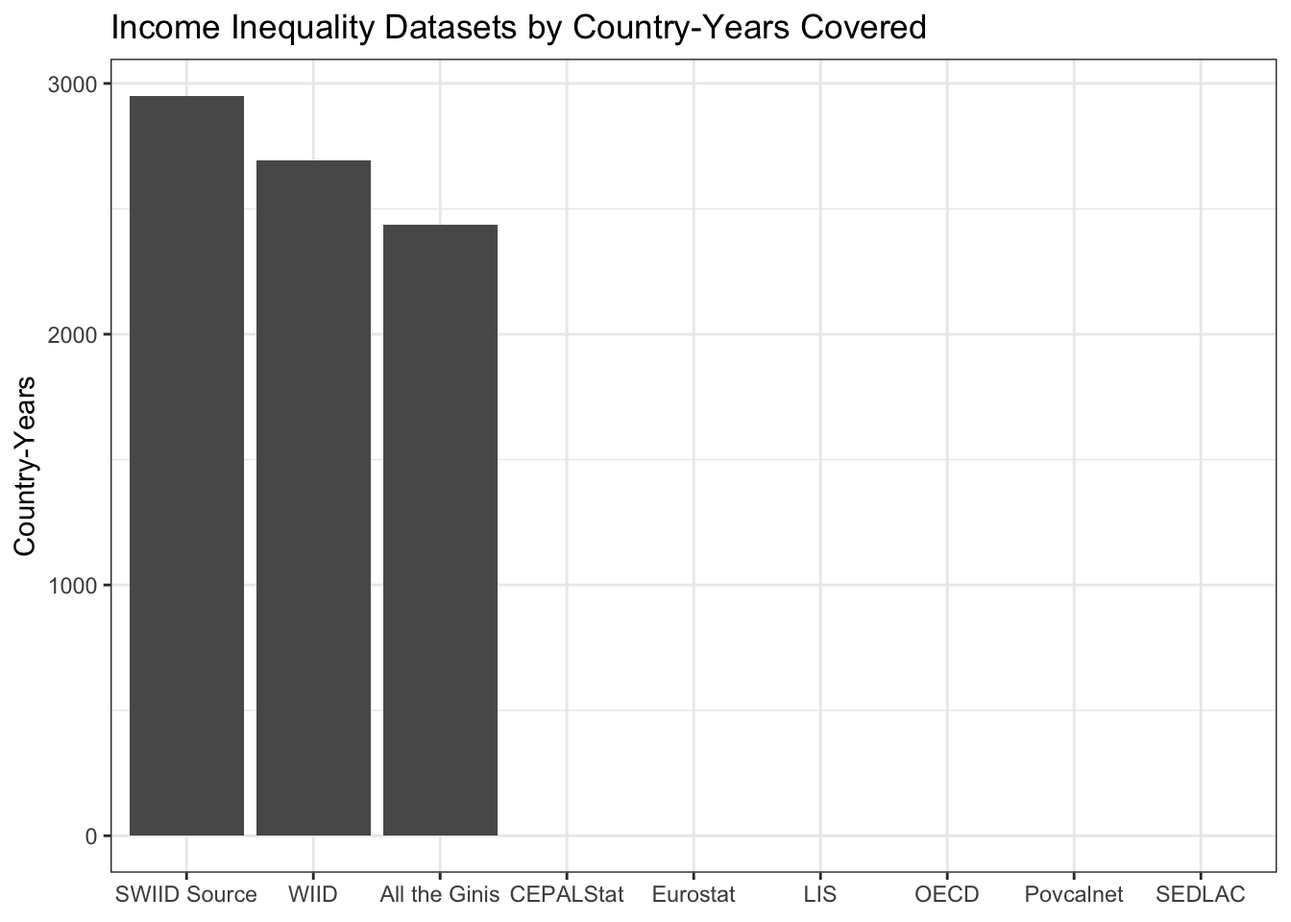
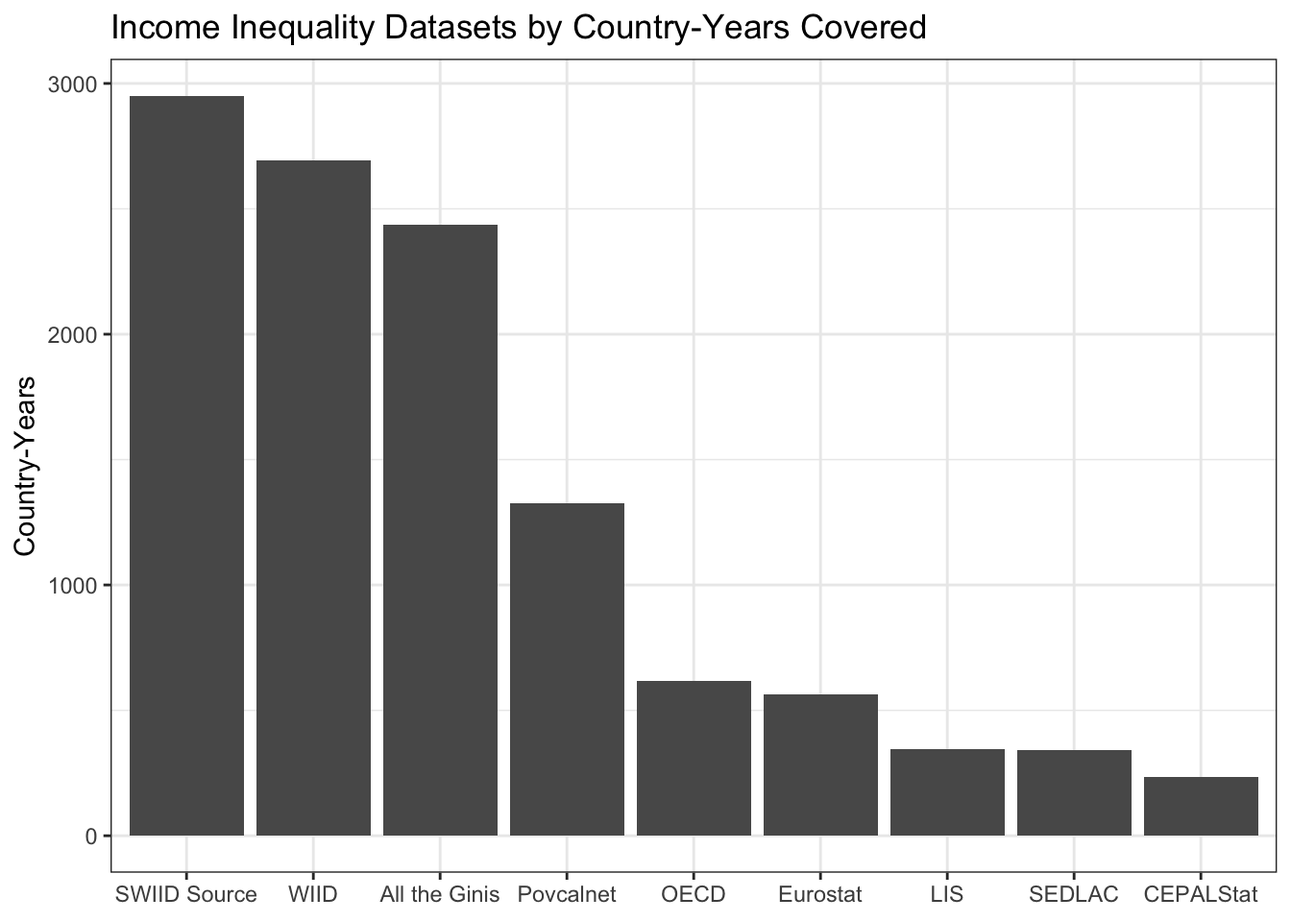
rebuilding site Thu Mar  7 17:30:53 CST 2019

diff --git a/blog/index.html b/blog/index.html
@@ -306,7 +306,7 @@ stata(&quot;sum a&quot;, data.in = x)                         </code></pre>
 ## 
 ##     Variable |       Obs        Mean    Std. Dev.       Min        Max
 ## -------------+--------------------------------------------------------
-##            a |         3   -.3070876    2.009733  -1.710003   1.995275</code></pre>
+##            a |         3   -1.065006    .9060159  -1.998136  -.1887876</code></pre>
 <pre class="r"><code>## Data output from Stata (e.g., obtain &#39;auto&#39; dataset)
 auto &lt;- stata(&quot;sysuse auto&quot;, data.out = TRUE)</code></pre>
 <pre><code>## . sysuse auto
@@ -345,24 +345,24 @@ stata(&quot;
 ## 
 ##     Variable |       Obs        Mean    Std. Dev.       Min        Max
 ## -------------+--------------------------------------------------------
-##            y |       100    .0592783    .9226038  -1.849994   3.267023
-##           x1 |       100    .0602101    .9078033  -2.261414   1.829067
-##           x2 |       100   -.0951395    1.035894  -2.462968   1.880852
+##            y |       100    .1788017    1.113156  -2.347368   3.069708
+##           x1 |       100    .0287096     1.12099  -3.033225   2.693249
+##           x2 |       100   -.1258517    .9236639  -2.836265   1.738997
 ## .     reg y x1 x2
 ## 
 ##       Source |       SS       df       MS              Number of obs =     100
-## -------------+------------------------------           F(  2,    97) =    0.21
-##        Model |  .371905827     2  .185952914           Prob &gt; F      =  0.8069
-##     Residual |  83.8966767    97  .864914193           R-squared     =  0.0044
-## -------------+------------------------------           Adj R-squared = -0.0161
-##        Total |  84.2685825    99  .851197803           Root MSE      =  .93001
+## -------------+------------------------------           F(  2,    97) =    3.19
+##        Model |   7.5698813     2  3.78494065           Prob &gt; F      =  0.0455
+##     Residual |  115.102695    97  1.18662572           R-squared     =  0.0617
+## -------------+------------------------------           Adj R-squared =  0.0424
+##        Total |  122.672577    99  1.23911693           Root MSE      =  1.0893
 ## 
 ## ------------------------------------------------------------------------------
 ##            y |      Coef.   Std. Err.      t    P&gt;|t|     [95% Conf. Interval]
 ## -------------+----------------------------------------------------------------
-##           x1 |  -.0508655   .1031892    -0.49   0.623    -.2556676    .1539366
-##           x2 |   .0360632   .0904297     0.40   0.691    -.1434147     .215541
-##        _cons |   .0657719   .0935664     0.70   0.484    -.1199315    .2514753
+##           x1 |  -.1666336   .0981707    -1.70   0.093    -.3614751     .028208
+##           x2 |  -.2421968   .1191432    -2.03   0.045    -.4786632   -.0057305
+##        _cons |   .1531048   .1099566     1.39   0.167    -.0651287    .3713383
 ## ------------------------------------------------------------------------------
 ## .</code></pre>
 </div>
@@ -482,6 +482,72 @@ stata(&quot;
 </ul>
 <p><img src="/post/2017-10-27-swiid-version-6-1-is-available_files/figure-html/unnamed-chunk-1-1.png" width="672" /></p>
 <p>For more details, you can check out the all the R and Stan code used to generate the estimates <a href="https://github.com/fsolt/swiid">in the SWIID GitHub repository</a>. As always, I encourage users of the SWIID to <a href="mailto:frederick-solt@uiowa.edu">email me</a> with their comments, questions, and suggestions.</p>
+
+    </div>
+    
+  
+
+  
+
+      <h3><a href="/blog/2017/07/28/the-swiid-source-data/">The SWIID Source Data</a></h3>
+      <h5>Friday, 28 July 2017</h5>
+    <div class="entry">
+        
+
+
+<p><em>Saturday, 9 February 2019: Updated with information on the source data for SWIID Version 8.0</em></p>
+<p>I have been producing the Standardized World Income Inequality Database for nearly a decade. Since 2008, the SWIID has provided estimates of the Gini index of income inequality<a href="#fn1" class="footnote-ref" id="fnref1"><sup>1</sup></a> for as many countries and years as possible and—given the primary goal of maximizing spatial and temporal coverage—these estimates are as comparable as the available data allow. The dataset has been used widely by academics, journalists, and policymakers. It’s been successful way beyond all my hopes.<a href="#fn2" class="footnote-ref" id="fnref2"><sup>2</sup></a> I’ve been <a href="/swiid/swiid_downloads/">adding to it, revising it, improving on it</a> pretty much the entire time since its launch. Now, <a href="https://www.nsf.gov/awardsearch/showAward?AWD_ID=1533746">with the support of the NSF</a>, I am scrapping all of that work and starting fresh. From scratch.</p>
+<p>This is the first in a series of posts on how I did it. It focuses on an unheralded but foundational part of the SWIID project, the source data. The basic idea behind the SWIID is to start with the data that has been most carefully picked over to ensure its utmost cross-national comparability: the data of the fantastic <a href="http://www.lisdatacenter.org">Luxembourg Income Study</a>. I’ve heard that generating a single country-year of LIS data takes an average of ten person-months of work. <em>That’s</em> dedication to comparability. ❤ But the flipside of maximizing comparability is that the LIS’s coverage is pretty sparse: at last count, it includes just 351 country-years.<a href="#fn3" class="footnote-ref" id="fnref3"><sup>3</sup></a> To address this weakness, the SWIID routine estimates the relationships between Gini indices based on the LIS and all of the other Ginis available for the same country-years, then uses these relationships to estimate what the LIS Gini <em>would be</em> in country-years not included in the LIS but available from other sources.<a href="#fn4" class="footnote-ref" id="fnref4"><sup>4</sup></a> The critical first step to making this work is getting <em>a lot</em> of other, non-LIS Ginis. I call these other Ginis the SWIID’s source data. Over the years, I and my research assistants built up a big spreadsheet of data collected from international organizations, national statistical offices, and scholarly books and articles. But it seemed like whenever I checked over these source data, I would find that at least a few figures had been recently revised, or their source was seemingly no longer available, or (worst of all) they evidently had been entered incorrectly. So again: it’s time to start over from scratch.</p>
+<p>To be included in the SWIID’s source data, observations need to encompass the entire population of a country without regard to age, location,<a href="#fn5" class="footnote-ref" id="fnref5"><sup>5</sup></a> or employment status.<a href="#fn6" class="footnote-ref" id="fnref6"><sup>6</sup></a> They need to have an identifiable welfare definition and equivalence scale (more on these below). Finally, because I want to be able to direct users to sources they can easily peruse themselves, observations need to be available online.<a href="#fn7" class="footnote-ref" id="fnref7"><sup>7</sup></a></p>
+<p>Hand-entering data is tedious and error-prone work, so I <a href="https://github.com/fsolt/swiid/blob/master/R/data_setup.R">automated as much of the process of data collection</a> as practicable. Most international organizations and a few national statistical offices use APIs that facilitate downloading their data, and often the <a href="https://twitter.com/search?q=%23rstats">#rstats</a> community has built R packages using these APIs to make the task even easier. I took as much advantage of these resources as possible.<a href="#fn8" class="footnote-ref" id="fnref8"><sup>8</sup></a> In the absence of an API, I scripted downloads of any available spreadsheets, preferring clean csv files to excel-formatted ones. If there was no spreadsheet, but data were available in pdf files, I automated downloading these files and then used <a href="http://thomasleeper.com">Thomas Leeper</a>’s <a href="https://github.com/ropensci/tabulizer"><code>tabulizer</code> package</a> to read the tables into R. In the absence of a file to download, I scripted the process of scraping the data from the web. Still, for a variety of reasons, a source’s data may have been consigned to being entered in a <a href="https://github.com/fsolt/swiid/raw/master/data-raw/fs_added_data.csv">separate spreadsheet</a>. Many sources contain just a handful or fewer observations, making the payoff to the often laborious process of data cleaning too small to justify the effort. Some sources–including most academic articles–are behind paywalls, making reproducibility a hassle anyway (though I still often used tabulizer to read the data from the pdf before cutting-and-pasting it into the spreadsheet). Finally, at least <a href="https://wdronline.worldbank.org/bitstream/handle/10986/9269/wps4007.pdf?sequence=1">one source</a> contains crucial information encoded in the typeface(!!) of its tables, information lost when the tables are scanned into R. All of the entries in this spreadsheet were checked repeatedly for errors,<a href="#fn9" class="footnote-ref" id="fnref9"><sup>9</sup></a> and I excluded repeated reports of the exact same observation from different sources. In the end, I was able to automate the collection of more than three quarters of the source data and a much higher percentage of the series that will be updated or are subject to revision, facilitating incorporating these changes in future versions.</p>
+<p>The resulting dataset comprises 15549(!) Gini coefficients from 2951 country-years in 196 countries or territories, making the coverage of the SWIID source data broader than that of any other income inequality dataset. This isn’t surprising given that, with the exceptions of the <a href="https://www.wider.unu.edu/database/world-income-inequality-database-wiid4">WIID</a> (which, since it provides no original data, isn’t drawn on at all anymore) and the <a href="https://www.gc.cuny.edu/Page-Elements/Academics-Research-Centers-Initiatives/Centers-and-Institutes/Stone-Center-on-Socio-Economic-Inequality/Core-Faculty,-Team,-and-Affiliated-LIS-Scholars/Branko-Milanovic/Datasets">All the Ginis</a> database (which provides little original data, and so isn’t drawn on much), the SWIID source data incorporates all of the data in these other datasets.</p>
+<p><img src="/post/2017-07-28-the-swiid-source-data_files/figure-html/data_by_coverage-1.png" width="672" /></p>
+<p>So, let’s check out what the source data look like. There is much more data available about the income distribution in some countries than in others. Which countries are most data-rich? The plot below shows the top dozen countries by the count of observations. Canada, by virtue of the excellent <a href="http://www.statcan.gc.ca">Statistics Canada</a> as well as longstanding membership in the OECD and LIS, has 736 observations, many more than any other country. The United Kingdom, Germany, and the United States are next, followed by an interesting mix of countries from around the world with not surprisingly a sizable European representation. All are members of the LIS. On the other hand, eleven countries have only a single observation.</p>
+<p><img src="/post/2017-07-28-the-swiid-source-data_files/figure-html/obs_by_country-1.png" width="672" /></p>
+<p>As we’ll see in later posts in this series, observations for the same country in the same year, but with different welfare definitions and equivalence scales or from different sources, are important to generating the SWIID’s cross-nationally comparable estimates. Still, we might be interested to know which countries have the most coverage of the years in the SWIID’s current 57-year timeframe, from 1960 to 2017, because the SWIID’s inequality estimates for countries with fewer country-year observations will include more interpolated values, which in turn will have more uncertainty.</p>
+<p><img src="/post/2017-07-28-the-swiid-source-data_files/figure-html/years_by_country-1.png" width="672" /></p>
+<p>The source data includes observations for Sweden and the United Kingdom in all but one of these years and for the United States in all but five. Iran and Argentina—two countries not included in the LIS—make the top 12, with 43 and 42 country-year observations respectively. The median country has observations in 16 different country-years.</p>
+<p>We can also get a sense of the available inequality data by turning the question around and asking about coverage across countries over time. There are observations for 123 countries in 2005. Coverage is relatively good in the years from 2000 to 2015, at least 80 countries per year, before dropping to 75 countries for 2016 and just 25 for 2017. Country coverage is pretty thin each year through the 1960s and 1970s and still isn’t all that great until the late 1980s.<a href="#fn10" class="footnote-ref" id="fnref10"><sup>10</sup></a></p>
+<p><img src="/post/2017-07-28-the-swiid-source-data_files/figure-html/countries_by_year-1.png" width="672" /></p>
+<p>Earlier I mentioned that to be included in the SWIID source data observations need to have an identifiable welfare definition and equivalence scale. A welfare definition is an answer to the question, this Gini measures the distribution of what? The four welfare definitions employed in the SWIID source data are market income, gross income, disposable income, and consumption. Market income is defined as the amount of money coming into the household, excluding any government cash or near-cash benefits, the so-called ‘pre-tax, pre-transfer income.’<a href="#fn11" class="footnote-ref" id="fnref11"><sup>11</sup></a> Gross income is the sum of market income and government transfer payments; it is ‘pre-tax, post-transfer income.’ Disposable income, in turn, is gross income minus direct taxes: ‘post-tax, post-transfer income.’<a href="#fn12" class="footnote-ref" id="fnref12"><sup>12</sup></a> Consumption does not refer to the money coming into the household at all but rather to the money going out.<a href="#fn13" class="footnote-ref" id="fnref13"><sup>13</sup></a> In the source data, Ginis of disposable income are much more common than those using other welfare definitions.</p>
+<p><img src="/post/2017-07-28-the-swiid-source-data_files/figure-html/obs_by_wd-1.png" width="672" /></p>
+<p>Equivalence scales are the ways in which the size and composition of a household is incorporated into the calculation of its members’ welfare. On the one hand, these factors can simply be ignored, with all households with the same amount of income or consumption treated as if they enjoy the same level of welfare, regardless of their size. One can improve on this household ‘scale’<a href="#fn14" class="footnote-ref" id="fnref14"><sup>14</sup></a> by dividing the household’s income by its number of members, that is, by using a per capita scale. But a household of two members and an income of $100,000 is better off than one with a single member and $50,000 due to economies of scale—that’s a big reason why people look for roommates. There are a variety of ways to try to account for these economies by calculating the number of “equivalent adults” in the household. Of the most commonly used adult-equivalent scales, the square-root scale is the most straightforward: one simply divides the household income by the square root of the number of members. The “OECD-modified” scale for the number of adult equivalents (<a href="http://www.oecd.org/eco/growth/OECD-Note-EquivalenceScales.pdf">which the OECD itself actually never used</a>) counts the first adult as 1, all other adults as .5, and each child as .3. And there are plenty of other adult-equivalent scales, from the “old OECD” scale (1 for the first adult, 0.7 for each additional adult, and 0.5 for each child) to caloric-requirement-based scales (which are actually very nearly per capita, as it turns out) to a number of country-specific scales. In previous versions of the SWIID, all adult-equivalent scales were considered a single category. Now, the square-root scale and the OECD-modified scale have both been split out, leaving the remaining catch-all adult-equivalent category much smaller.</p>
+<p><img src="/post/2017-07-28-the-swiid-source-data_files/figure-html/obs_by_es-1.png" width="672" /></p>
+<p>Differences in the welfare definition and the equivalence scale employed constitute the biggest source of incomparability across observations in the source data, and all twenty of the possible combinations are represented. I’ll take up how we get from these incomparable observations to the SWIID estimates in the next post. In the meantime, if you’d like to see the source data, you can <a href="https://github.com/fsolt/swiid/blob/master/data/swiid_source.csv">download it from here</a>.</p>
+<p><img src="/post/2017-07-28-the-swiid-source-data_files/figure-html/obs_by_wdes-1.png" width="672" /></p>
+<div id="references" class="section level1 unnumbered">
+<h1>References</h1>
+<div id="refs" class="references">
+<div id="ref-Jesuit2010">
+<p>Jesuit, David K., and Vincent A. Mahler. 2010. “Comparing Government Redistribution Across Countries: The Problem of Second-Order Effects.” <em>Social Science Quarterly</em> 91(5): 1390–1404.</p>
+</div>
+<div id="ref-Morgan2013">
+<p>Morgan, Jana, and Nathan J. Kelly. 2013. “Market Inequality and Redistribution in Latin America and the Caribbean.” <em>Journal of Politics</em> 75(3): 672–85.</p>
+</div>
+<div id="ref-Solt2016">
+<p>Solt, Frederick. 2016. “The Standardized World Income Inequality Database.” <em>Social Science Quarterly</em> 97(5): 1267–81.</p>
+</div>
+</div>
+</div>
+<div class="footnotes">
+<hr />
+<ol>
+<li id="fn1"><p>I think the clearest explanation of the Gini index is that it is half the average difference in income between all pairs of units—say, households—as a percentage of the mean income of those units. Okay, I said “clearest,” not necessarily “clear.” Anyway, it has a theoretical range of 0 (all households have the same income) to 100 (one household has all the income and the rest have none), but Ginis below 20 or above 60 are rare in the real world. There are good reasons to prefer other measures of inequality, and there are many options, but the Gini is by far the most widely available.<a href="#fnref1" class="footnote-back">↩</a></p></li>
+<li id="fn2"><p>At the time, those hopes were admittedly concerned mostly with getting <a href="https://twitter.com/search?q=%23reviewer2&amp;src=typd">#Reviewer2</a> off my back so I could publish a <a href="/papers/solt2011">series</a> <a href="/papers/solthabelgrant2011">of</a> <a href="/papers/solt2012">manuscripts</a> I had on how the context of inequality is related to people’s political attitudes.<a href="#fnref2" class="footnote-back">↩</a></p></li>
+<li id="fn3"><p>Which is what #Reviewer2 always complained about. R2: Shouldn’t you include <a href="https://en.wikipedia.org/wiki/Ruritania#In_academia">Ruritania and Megalomania</a> in your sample, given the broad applicability of your theory? Me: Yes, sure, but like I wrote in the paper, there’s no LIS data for those countries, and the other available data just isn’t comparable. R2: Well then, I recommend rejection. Me: Grr.<a href="#fnref3" class="footnote-back">↩</a></p></li>
+<li id="fn4"><p>If you’re thinking, “hey, multiple imputation for missing data,” cool, that’s what I was thinking too. If you’re thinking of <a href="https://projects.fivethirtyeight.com/congress-generic-ballot-polls/">poll aggregators and house effects</a>, yep, it’s very similar. If you’re thinking of inequality as a latent variable, with a number of indicators of varying discrimination, that also works. If you’re thinking you need to look at some cat gifs right about meow, <a href="https://giphy.com/search/cat">click here</a>.<a href="#fnref4" class="footnote-back">↩</a></p></li>
+<li id="fn5"><p>The requirement for complete territorial coverage was relaxed for minor deviations such as data on Portugal that excludes Madeira and the Azores. It was relaxed somewhat further for early series that covered only the urban population of three highly urbanized countries: Uruguay, Argentina, and South Korea. The general rule, however, is that data is excluded if it measures the income distribution of only urban or rural populations, or of only selected cities, or some other such incomplete territory.<a href="#fnref5" class="footnote-back">↩</a></p></li>
+<li id="fn6"><p>This last requirement is new; it means nearly 600 observations on the distribution of wages across employed individuals that were included in the source data of previous versions of the SWIID are now excluded. Between the lack of information on those out of the workforce and on how workers formed households, these data weren’t very strongly related to the LIS anyway.<a href="#fnref6" class="footnote-back">↩</a></p></li>
+<li id="fn7"><p>For scholarly articles, I preferred DOIs or JSTOR stable URLs, but if those were unavailable I used the publisher website or another repository. For books, I provide the link to the relevant page in Google Books. There were <a href="https://books.google.com/books?id=zaL4CGdjOkUC">two</a> <a href="https://books.google.com/books?id=_aapAgAAQBAJ">books</a> that I decided I had to include for which Google Books wouldn’t show the relevant pages (at least not to me); in those two cases, the links I provide just go to the entire volume. I confirmed that the cited pages can be found using Amazon’s “Look Inside” feature, so I consider my “must be available online” rule only badly bent rather than completely broken.<a href="#fnref7" class="footnote-back">↩</a></p></li>
+<li id="fn8"><p>Although the sources with APIs were relatively few, they contained the most data: nearly half of the observations were collected this way.<a href="#fnref8" class="footnote-back">↩</a></p></li>
+<li id="fn9"><p>Which, of course, is not to say that they are error-free. If you spot any problems, or better still, know of sources I might have missed, <em>please</em> <a href="https://github.com/fsolt/swiid/issues/6">let me know</a>!<a href="#fnref9" class="footnote-back">↩</a></p></li>
+<li id="fn10"><p>This is partly a result of my decision to insist on sources that are available online, but it’s just as well: so little information is available about many of the so-excluded observations on that era that I find it hard to have much confidence in them.<a href="#fnref10" class="footnote-back">↩</a></p></li>
+<li id="fn11"><p>It’s important, though, to not think of the distribution of market income as ‘pre-government.’ Beyond taxes and transfers, governments seeking to shape the distribution of income have a wide array of ‘market-conditioning’ or ‘predistribution’ policy options, with minimum wage regulation and labor policy two obvious examples <span class="citation">(see, e.g., Morgan and Kelly 2013)</span>. Further, even taxes and transfers can profoundly shape the distribution of <em>market</em> income through ‘second-order effects.’ Where robust public pension programs exist, for example, people save less for retirement, leaving many of the elderly without market income in old age and so raising the level of market-income inequality <span class="citation">(see, e.g., Jesuit and Mahler 2010)</span>.<a href="#fnref11" class="footnote-back">↩</a></p></li>
+<li id="fn12"><p>Note that disposable income still does not take into account, on the one hand, indirect taxes like sales taxes and VAT, or, on the other, public services and indirect government transfers such as price subsidies. There is very little information available about the distribution of such ‘final income,’ pretty much only that generated by the <a href="http://www.commitmentoequity.org">Commitment to Equity Institute</a>, so I exclude it from the SWIID source data at least for the time being.<a href="#fnref12" class="footnote-back">↩</a></p></li>
+<li id="fn13"><p>In previous versions of the SWIID, market and gross income were treated as a single welfare definition, and I am glad to finally be able to split them apart <span class="citation">(c.f., Solt 2016, 1272)</span>. The consumption welfare definition <em>might</em> now be the most heterogeneous within the SWIID source data, varying considerably in whether and how observations treat expenditures on durable goods. Another source of differences within a single welfare definition is the extent to which nonmonetary income—such as the value of food grown for the household’s own consumption or of housing that the owner occupies—is included. The SWIID source data include the variable <code>monetary</code> that indicates whether any nonmonetary income is taken into account, but at present this information is not incorporated into the classification of welfare definitions.<a href="#fnref13" class="footnote-back">↩</a></p></li>
+<li id="fn14"><p>Scare quotes because, strictly speaking, nothing is being scaled at all; it’s simply treating the household as the unit of analysis.<a href="#fnref14" class="footnote-back">↩</a></p></li>
+</ol>
+</div>
 
     </div>
     
@@ -862,8 +928,6 @@ di &quot;N = `cases'&quot;
 
     </div>
     
-  
-
   
 
   

diff --git a/blog/2017/07/28/the-swiid-source-data/index.html b/blog/2017/07/28/the-swiid-source-data/index.html
@@ -37,11 +37,6 @@
 
 
 
-<link href='//cdnjs.cloudflare.com/ajax/libs/highlight.js/9.12.0/styles/github.min.css' rel='stylesheet' type='text/css' />
-
-
-
-
 </head>
 
   <body>
@@ -180,51 +175,6 @@
 <p>To be included in the SWIID’s source data, observations need to encompass the entire population of a country without regard to age, location,<a href="#fn5" class="footnote-ref" id="fnref5"><sup>5</sup></a> or employment status.<a href="#fn6" class="footnote-ref" id="fnref6"><sup>6</sup></a> They need to have an identifiable welfare definition and equivalence scale (more on these below). Finally, because I want to be able to direct users to sources they can easily peruse themselves, observations need to be available online.<a href="#fn7" class="footnote-ref" id="fnref7"><sup>7</sup></a></p>
 <p>Hand-entering data is tedious and error-prone work, so I <a href="https://github.com/fsolt/swiid/blob/master/R/data_setup.R">automated as much of the process of data collection</a> as practicable. Most international organizations and a few national statistical offices use APIs that facilitate downloading their data, and often the <a href="https://twitter.com/search?q=%23rstats">#rstats</a> community has built R packages using these APIs to make the task even easier. I took as much advantage of these resources as possible.<a href="#fn8" class="footnote-ref" id="fnref8"><sup>8</sup></a> In the absence of an API, I scripted downloads of any available spreadsheets, preferring clean csv files to excel-formatted ones. If there was no spreadsheet, but data were available in pdf files, I automated downloading these files and then used <a href="http://thomasleeper.com">Thomas Leeper</a>’s <a href="https://github.com/ropensci/tabulizer"><code>tabulizer</code> package</a> to read the tables into R. In the absence of a file to download, I scripted the process of scraping the data from the web. Still, for a variety of reasons, a source’s data may have been consigned to being entered in a <a href="https://github.com/fsolt/swiid/raw/master/data-raw/fs_added_data.csv">separate spreadsheet</a>. Many sources contain just a handful or fewer observations, making the payoff to the often laborious process of data cleaning too small to justify the effort. Some sources–including most academic articles–are behind paywalls, making reproducibility a hassle anyway (though I still often used tabulizer to read the data from the pdf before cutting-and-pasting it into the spreadsheet). Finally, at least <a href="https://wdronline.worldbank.org/bitstream/handle/10986/9269/wps4007.pdf?sequence=1">one source</a> contains crucial information encoded in the typeface(!!) of its tables, information lost when the tables are scanned into R. All of the entries in this spreadsheet were checked repeatedly for errors,<a href="#fn9" class="footnote-ref" id="fnref9"><sup>9</sup></a> and I excluded repeated reports of the exact same observation from different sources. In the end, I was able to automate the collection of more than three quarters of the source data and a much higher percentage of the series that will be updated or are subject to revision, facilitating incorporating these changes in future versions.</p>
 <p>The resulting dataset comprises 15549(!) Gini coefficients from 2951 country-years in 196 countries or territories, making the coverage of the SWIID source data broader than that of any other income inequality dataset. This isn’t surprising given that, with the exceptions of the <a href="https://www.wider.unu.edu/database/world-income-inequality-database-wiid4">WIID</a> (which, since it provides no original data, isn’t drawn on at all anymore) and the <a href="https://www.gc.cuny.edu/Page-Elements/Academics-Research-Centers-Initiatives/Centers-and-Institutes/Stone-Center-on-Socio-Economic-Inequality/Core-Faculty,-Team,-and-Affiliated-LIS-Scholars/Branko-Milanovic/Datasets">All the Ginis</a> database (which provides little original data, and so isn’t drawn on much), the SWIID source data incorporates all of the data in these other datasets.</p>
-<pre class="r"><code>atg_cy &lt;- haven::read_dta(here::here(&quot;../swiid/data-raw/atg.dta&quot;)) %&gt;% 
-    select(country, year, starts_with(&quot;gini&quot;)) %&gt;% 
-    mutate(has_gini = rowMeans(select(., starts_with(&quot;gini&quot;)), na.rm = TRUE)) %&gt;% 
-    filter(has_gini &gt; 0) %&gt;% 
-    count(country, year) %&gt;% 
-    nrow()
-
-wider_cy &lt;- readxl::read_excel(here::here(&quot;../swiid/dev/WIID_19Dec2018.xlsx&quot;)) %&gt;% 
-    filter(areacovr == &quot;All&quot; &amp; popcovr == &quot;All&quot; &amp; areacovr == &quot;All&quot; &amp;
-               !is.na(gini_reported) &amp;
-               !is.na(resource) &amp;
-               !is.na(scale) &amp;
-               !(resource == &quot;Earnings&quot;)) %&gt;% 
-    select(country, year, gini_reported, source, resource, scale, everything()) %&gt;% 
-    count(country, year) %&gt;% 
-    nrow()
-
-ss_cy &lt;- swiid_source %&gt;%
-    count(country, year) %&gt;%
-    nrow()
-
-datasets &lt;- c(&quot;Eurostat&quot;, &quot;OECD&quot;, &quot;SEDLAC&quot;, &quot;LISSY&quot;, &quot;CEPALStat&quot;, &quot;World Bank Povcalnet&quot;)
-    
-swiid_source %&gt;% 
-    count(source1, country, year) %&gt;%
-    count(source1) %&gt;% 
-    filter(source1 %in% datasets) %&gt;%
-    names()</code></pre>
-<pre><code>## [1] &quot;source1&quot; &quot;n&quot;</code></pre>
-<pre class="r"><code>cy_coverage &lt;- swiid_source %&gt;% 
-    count(source1, country, year) %&gt;%
-    count(source1) %&gt;% 
-    filter(source1 %in% datasets) %&gt;% 
-    mutate(source1 = recode(source1, LISSY = &quot;LIS&quot;, &quot;World Bank Povcalnet&quot; = &quot;Povcalnet&quot;)) %&gt;% 
-    bind_rows(tibble(source1 = c(&quot;WIID&quot;, &quot;All the Ginis&quot;, &quot;SWIID Source&quot;),
-                     nn = c(wider_cy, atg_cy, ss_cy))) %&gt;% 
-    arrange(desc(nn))
-
-ggplot(cy_coverage, aes(forcats::fct_reorder(source1, nn, .desc = TRUE), nn)) +
-    geom_bar(stat=&quot;identity&quot;) +
-    theme_bw() +
-    theme(axis.title.x = element_blank()) +  
-    ylab(&quot;Country-Years&quot;) +
-    ggtitle(&quot;Income Inequality Datasets by Country-Years Covered&quot;)</code></pre>
-<pre><code>## Warning: Removed 6 rows containing missing values (position_stack).</code></pre>
 <p><img src="/post/2017-07-28-the-swiid-source-data_files/figure-html/data_by_coverage-1.png" width="672" /></p>
 <p>So, let’s check out what the source data look like. There is much more data available about the income distribution in some countries than in others. Which countries are most data-rich? The plot below shows the top dozen countries by the count of observations. Canada, by virtue of the excellent <a href="http://www.statcan.gc.ca">Statistics Canada</a> as well as longstanding membership in the OECD and LIS, has 736 observations, many more than any other country. The United Kingdom, Germany, and the United States are next, followed by an interesting mix of countries from around the world with not surprisingly a sizable European representation. All are members of the LIS. On the other hand, eleven countries have only a single observation.</p>
 <p><img src="/post/2017-07-28-the-swiid-source-data_files/figure-html/obs_by_country-1.png" width="672" /></p>
@@ -279,18 +229,6 @@ ggplot(cy_coverage, aes(forcats::fct_reorder(source1, nn, .desc = TRUE), nn)) +
       </div>
     </div>
     
-
-
-
-<script src="//cdnjs.cloudflare.com/ajax/libs/highlight.js/9.12.0/highlight.min.js"></script>
-
-
-
-<script src="//cdnjs.cloudflare.com/ajax/libs/highlight.js/9.12.0/languages/r.min.js"></script>
-<script src="//cdnjs.cloudflare.com/ajax/libs/highlight.js/9.12.0/languages/yaml.min.js"></script>
-<script>hljs.configure({languages: []}); hljs.initHighlightingOnLoad();</script>
-
-
 
     
 <script src="/js/math-code.js"></script>

diff --git a/blog/2018/08/15/switch-to-r/index.html b/blog/2018/08/15/switch-to-r/index.html
@@ -241,7 +241,7 @@ stata(&quot;sum a&quot;, data.in = x)                         </code></pre>
 ## 
 ##     Variable |       Obs        Mean    Std. Dev.       Min        Max
 ## -------------+--------------------------------------------------------
-##            a |         3   -.3070876    2.009733  -1.710003   1.995275</code></pre>
+##            a |         3   -1.065006    .9060159  -1.998136  -.1887876</code></pre>
 <pre class="r"><code>## Data output from Stata (e.g., obtain &#39;auto&#39; dataset)
 auto &lt;- stata(&quot;sysuse auto&quot;, data.out = TRUE)</code></pre>
 <pre><code>## . sysuse auto
@@ -280,24 +280,24 @@ stata(&quot;
 ## 
 ##     Variable |       Obs        Mean    Std. Dev.       Min        Max
 ## -------------+--------------------------------------------------------
-##            y |       100    .0592783    .9226038  -1.849994   3.267023
-##           x1 |       100    .0602101    .9078033  -2.261414   1.829067
-##           x2 |       100   -.0951395    1.035894  -2.462968   1.880852
+##            y |       100    .1788017    1.113156  -2.347368   3.069708
+##           x1 |       100    .0287096     1.12099  -3.033225   2.693249
+##           x2 |       100   -.1258517    .9236639  -2.836265   1.738997
 ## .     reg y x1 x2
 ## 
 ##       Source |       SS       df       MS              Number of obs =     100
-## -------------+------------------------------           F(  2,    97) =    0.21
-##        Model |  .371905827     2  .185952914           Prob &gt; F      =  0.8069
-##     Residual |  83.8966767    97  .864914193           R-squared     =  0.0044
-## -------------+------------------------------           Adj R-squared = -0.0161
-##        Total |  84.2685825    99  .851197803           Root MSE      =  .93001
+## -------------+------------------------------           F(  2,    97) =    3.19
+##        Model |   7.5698813     2  3.78494065           Prob &gt; F      =  0.0455
+##     Residual |  115.102695    97  1.18662572           R-squared     =  0.0617
+## -------------+------------------------------           Adj R-squared =  0.0424
+##        Total |  122.672577    99  1.23911693           Root MSE      =  1.0893
 ## 
 ## ------------------------------------------------------------------------------
 ##            y |      Coef.   Std. Err.      t    P&gt;|t|     [95% Conf. Interval]
 ## -------------+----------------------------------------------------------------
-##           x1 |  -.0508655   .1031892    -0.49   0.623    -.2556676    .1539366
-##           x2 |   .0360632   .0904297     0.40   0.691    -.1434147     .215541
-##        _cons |   .0657719   .0935664     0.70   0.484    -.1199315    .2514753
+##           x1 |  -.1666336   .0981707    -1.70   0.093    -.3614751     .028208
+##           x2 |  -.2421968   .1191432    -2.03   0.045    -.4786632   -.0057305
+##        _cons |   .1531048   .1099566     1.39   0.167    -.0651287    .3713383
 ## ------------------------------------------------------------------------------
 ## .</code></pre>
 </div>

diff --git a/swiid/swiid_faq/index.html b/swiid/swiid_faq/index.html
@@ -189,6 +189,8 @@
     
   
     
+  
+    
 
         <h3><a href="/blog/2015/10/06/download-swiid/">Wait, how can I download the data again?</a></h3>
       <div class="entry">
@@ -448,11 +450,11 @@ merge 1:1 country year using &quot;my_data.dta&quot;, keep(match master)
   
     
   
-    
-  
   
 <br />
 <h3>The SWIID Data</h3>
+  
+    
   
     
   
@@ -524,8 +526,6 @@ merge 1:1 country year using &quot;my_data.dta&quot;, keep(match master)
 
       </div>
 
-    
-  
     
   
     

diff --git a/tags/index.html b/tags/index.html
@@ -191,7 +191,7 @@
     <a href="/tags/note">
       note
     </a>
-    (15)
+    (16)
   </li>
   
   <li>
@@ -205,7 +205,7 @@
     <a href="/tags/r">
       r
     </a>
-    (11)
+    (12)
   </li>
   
   <li>
@@ -226,7 +226,7 @@
     <a href="/tags/swiid">
       swiid
     </a>
-    (19)
+    (20)
   </li>
   
   <li>

diff --git a/tags/note/index.html b/tags/note/index.html
@@ -201,6 +201,11 @@
   </li>
   
   <li>
+    <span class="date">2017/07/28</span>
+    <a href="/blog/2017/07/28/the-swiid-source-data/">The SWIID Source Data</a>
+  </li>
+  
+  <li>
     <span class="date">2017/07/27</span>
     <a href="/blog/2017/07/27/swiid-version-6_0/">SWIID Version 6.0 is available!</a>
   </li>

diff --git a/tags/r/index.html b/tags/r/index.html
@@ -201,6 +201,11 @@
   </li>
   
   <li>
+    <span class="date">2017/07/28</span>
+    <a href="/blog/2017/07/28/the-swiid-source-data/">The SWIID Source Data</a>
+  </li>
+  
+  <li>
     <span class="date">2017/07/27</span>
     <a href="/blog/2017/07/27/swiid-version-6_0/">SWIID Version 6.0 is available!</a>
   </li>

diff --git a/tags/swiid/index.html b/tags/swiid/index.html
@@ -196,6 +196,11 @@
   </li>
   
   <li>
+    <span class="date">2017/07/28</span>
+    <a href="/blog/2017/07/28/the-swiid-source-data/">The SWIID Source Data</a>
+  </li>
+  
+  <li>
     <span class="date">2017/07/27</span>
     <a href="/blog/2017/07/27/swiid-version-6_0/">SWIID Version 6.0 is available!</a>
   </li>
